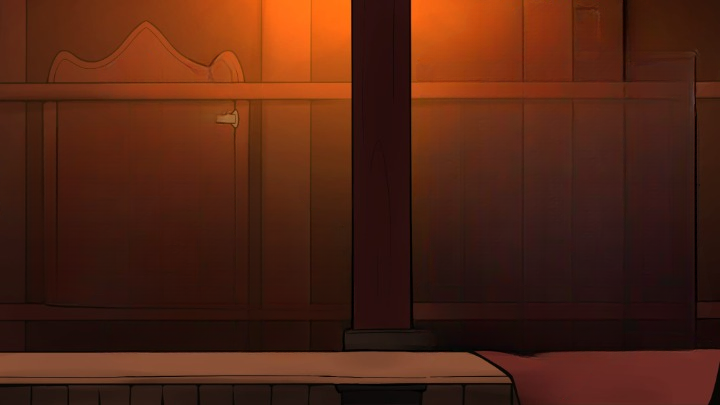
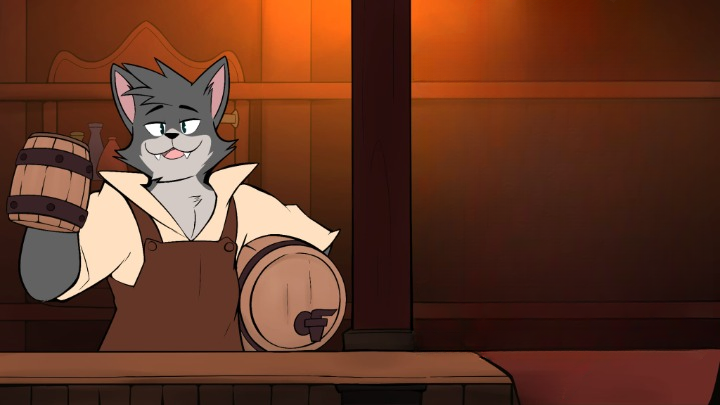
Update homepage to include new assets and some styling

diff --git a/purr-haps-frontend/src/components/HomePage.js b/purr-haps-frontend/src/components/HomePage.js
@@ -1,11 +1,11 @@
 import React from "react";
 import { useNavigate } from "react-router-dom";
-import backgroundImage from "../assets/images/HomeBackground.jpeg"; // Updated background image
+import backgroundImage from "../assets/images/HomeBackground.jpeg";
 import menuSelectionImage from "../assets/images/MenuSelection.png";
-import catGuyImage from "../assets/images/CatGuy.png"; // New asset
+import catGuyImage from "../assets/images/CatGuy.png";
 import "./HomePageStyles.css";
 import "./MenuSelection.css";
-import "./CatGuy.css"; // New CSS for CatGuy
+import "./CatGuy.css";
 
 const HomePage = () => {
   const navigate = useNavigate();
@@ -45,9 +45,6 @@ const HomePage = () => {
         >
           Menu Item 3
         </button>
-      </div>
-      <div className="CatGuyContainer">
-        <img src={catGuyImage} alt="Cat Guy" className="CatGuyImage" />
       </div>
     </div>
   );

diff --git a/purr-haps-frontend/src/components/MenuSelection.css b/purr-haps-frontend/src/components/MenuSelection.css
@@ -1,9 +1,9 @@
 .MenuSelectionContainer {
   position: absolute;
-  top: -13.2%;
+  top: -0%;
   left: 77.6%;
   transform: translateX(-50%);
-  width: 50%;
+  width: 40%;
   height: auto;
 }
 

diff --git a/purr-haps-frontend/src/components/HomePageStyles.css b/purr-haps-frontend/src/components/HomePageStyles.css
@@ -1,5 +1,3 @@
-/* HomePageStyles.css */
-
 .body {
   margin: 0;
   padding: 0;
